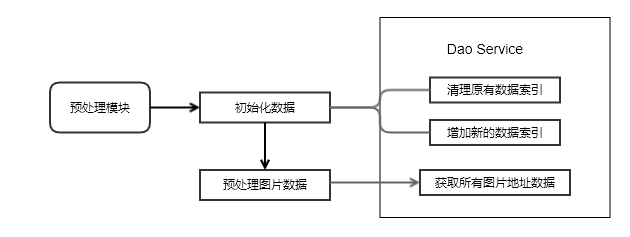
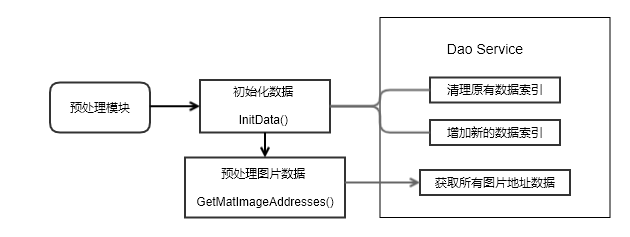
1
1

Changed region(s): [[0.2714, 0.6203, 0.573, 0.9451], [0.2413, 0.3249, 0.5429, 0.5907], [0.5127, 0.4135, 0.6032, 0.4726]]

diff --git a/Assets/Script/Dao/MockDaoService.cs b/Assets/Script/Dao/MockDaoService.cs
@@ -69,23 +69,7 @@ namespace MagicWall
         //
         public List<Enterprise> GetEnterprises()
         {
-            if (_enterprises == null)
-            {
-                Enterprise env = new Enterprise();
-
-                //  从数据库中获取数据
-                _enterprises = new List<Enterprise>();
-                for (int i = 0; i < 100; i++)
-                {
-                    _enterprises.Add(env.Generator());
-                }
-
-                return _enterprises;
-            }
-            else
-            {
-                return _enterprises;
-            }
+             return _enterprises;
         }
 
         //
@@ -185,23 +169,7 @@ namespace MagicWall
         //
         public List<Activity> GetActivities()
         {
-            if (_activities == null)
-            {
-                Activity activity = new Activity();
-
-                //  从数据库中获取数据
-                _activities = new List<Activity>();
-                for (int i = 0; i < 100; i++)
-                {
-                    _activities.Add(activity.Generator());
-                }
-
                 return _activities;
-            }
-            else
-            {
-                return _activities;
-            }
         }
 
         //
@@ -297,23 +265,7 @@ namespace MagicWall
         //
         public List<Product> GetProducts()
         {
-            if (_products == null)
-            {
-                Product product = new Product();
-
-                //  从数据库中获取数据
-                _products = new List<Product>();
-                for (int i = 0; i < 100; i++)
-                {
-                    _products.Add(product.Generator());
-                }
-
-                return _products;
-            }
-            else
-            {
-                return _products;
-            }
+            return _products;
         }
 
         public Product GetProduct()
@@ -757,7 +709,37 @@ namespace MagicWall
 
         public void InitData()
         {
-            //throw new System.NotImplementedException();
+            if (_enterprises == null)
+            {
+                Enterprise env = new Enterprise();
+
+                _enterprises = new List<Enterprise>();
+                for (int i = 0; i < 100; i++)
+                {
+                    _enterprises.Add(env.Generator());
+                }
+            }
+
+            if (_activities == null) {
+                Activity activity = new Activity();
+
+                _activities = new List<Activity>();
+                for (int i = 0; i < 100; i++)
+                {
+                    _activities.Add(activity.Generator());
+                }
+            }
+
+            if (_products == null) {
+                Product product = new Product();
+
+                _products = new List<Product>();
+                for (int i = 0; i < 100; i++)
+                {
+                    _products.Add(product.Generator());
+                }
+            }
+
         }
 
         public int GetLikes(string path)
@@ -791,12 +773,34 @@ namespace MagicWall
 
         public FlockData GetFlockDataByScene(DataTypeEnum type, int sceneIndex)
         {
-            throw new System.NotImplementedException();
+            return GetFlockData(type);
+            //throw new System.NotImplementedException();
         }
 
         public List<string> GetMatImageAddresses()
         {
-            throw new System.NotImplementedException();
+            List<string> addresses = new List<string>();
+
+            // _enterprises 
+            // _products
+            // _activities
+
+            for (int i = 0; i < _enterprises.Count; i++) {
+                addresses.Add(_enterprises[i].GetCover());
+            }
+
+            for (int i = 0; i < _products.Count; i++)
+            {
+                addresses.Add(_products[i].GetCover());
+            }
+
+            for (int i = 0; i < _activities.Count; i++)
+            {
+                addresses.Add(_activities[i].GetCover());
+            }
+
+            return addresses;
+            
         }
     }
 }

diff --git a/Assets/Script/MagicWallManager.cs b/Assets/Script/MagicWallManager.cs
@@ -109,9 +109,9 @@ namespace MagicWall
 
         // 配置选项
 
-       // public static string FileDir = "E:\\workspace\\MagicWall\\Files\\"; // xu pc电脑
+        public static string FileDir = "E:\\workspace\\MagicWall\\Files\\"; // xu pc电脑
 
-         public static string FileDir = "C:\\workspace\\MagicWall\\Files\\"; // 公司开发
+       //  public static string FileDir = "C:\\workspace\\MagicWall\\Files\\"; // 公司开发
 
        // public static string FileDir = "D:\\workspace\\MagicWall\\Files\\"; // xu  笔记本电脑
 
@@ -244,7 +244,6 @@ namespace MagicWall
             // 初始化实体管理器
             _agentManager.Init(this);
 
-
             //  初始化操作模块
             _operateMode.Init(this);
 
@@ -278,8 +277,6 @@ namespace MagicWall
         private void Awake()
         {
             _hasInit = false;
-
-
         }
 
 
@@ -290,8 +287,6 @@ namespace MagicWall
         }
 
         // Update is called once per frame
-        //private void Update() { 
-
         private void Update()
         {
             if (!_hasInit)
@@ -429,19 +424,6 @@ namespace MagicWall
         {
             return new Vector2(Screen.width, Screen.height);
         }
-
-
-        //IEnumerator ExchangeScene(float waitTime)
-        //{
-        //    yield return new WaitForSeconds(waitTime);
-
-        //    // 加载另一个
-
-        //    // 更换主题
-
-
-        //    Debug.Log("111111111");
-        //}
 
         private void ExchangeTheme() {
             // ExchangeTheme

diff --git a/Assets/Script/Scene/MagicSceneManager.cs b/Assets/Script/Scene/MagicSceneManager.cs
@@ -153,24 +153,6 @@ namespace MagicWall
             }
 
 
-            //// 运行场景
-            //if (!_scenes[_index].Run())
-            //{
-            //    GoNext();
-            //    //// 返回为false时，表示场景已运行结束
-            //    //if (_index == _scenes.Count - 1)
-            //    //{
-            //    //    _index = 0;
-            //    //}
-            //    //else
-            //    //{
-            //    //    _index++;
-            //    //}
-
-            //    //_manager.SceneIndex = _manager.SceneIndex + 1;
-            //    //_manager.CurrentScene = _scenes[_index];
-            //}
-
         }
 
         /// <summary>

diff --git a/Assets/Script/Custom/InfoPanelAgent.cs b/Assets/Script/Custom/InfoPanelAgent.cs
@@ -29,7 +29,6 @@ namespace MagicWall
         // 所有图片
         List<RawImage> images;
 
-
         private MagicWallManager _magicWallManager;
 
         /// <summary>
@@ -46,9 +45,6 @@ namespace MagicWall
 
             // 初始化最左侧图片
             _leftImages = _dataService.GetCustomImage(CustomImageType.LEFT1);
-
-            //AdjustLayout();
-
             SetLeftImages();
 
             // 初始化中间图片

diff --git a/Assets/Script/OperateCard/Agent/CardAgent.cs b/Assets/Script/OperateCard/Agent/CardAgent.cs
@@ -940,7 +940,7 @@ namespace MagicWall
         {
             DoUpdate();
 
-            Debug.Log("DO MOVE BUTTON");
+            //Debug.Log("DO MOVE BUTTON");
 
 
             // 移动
